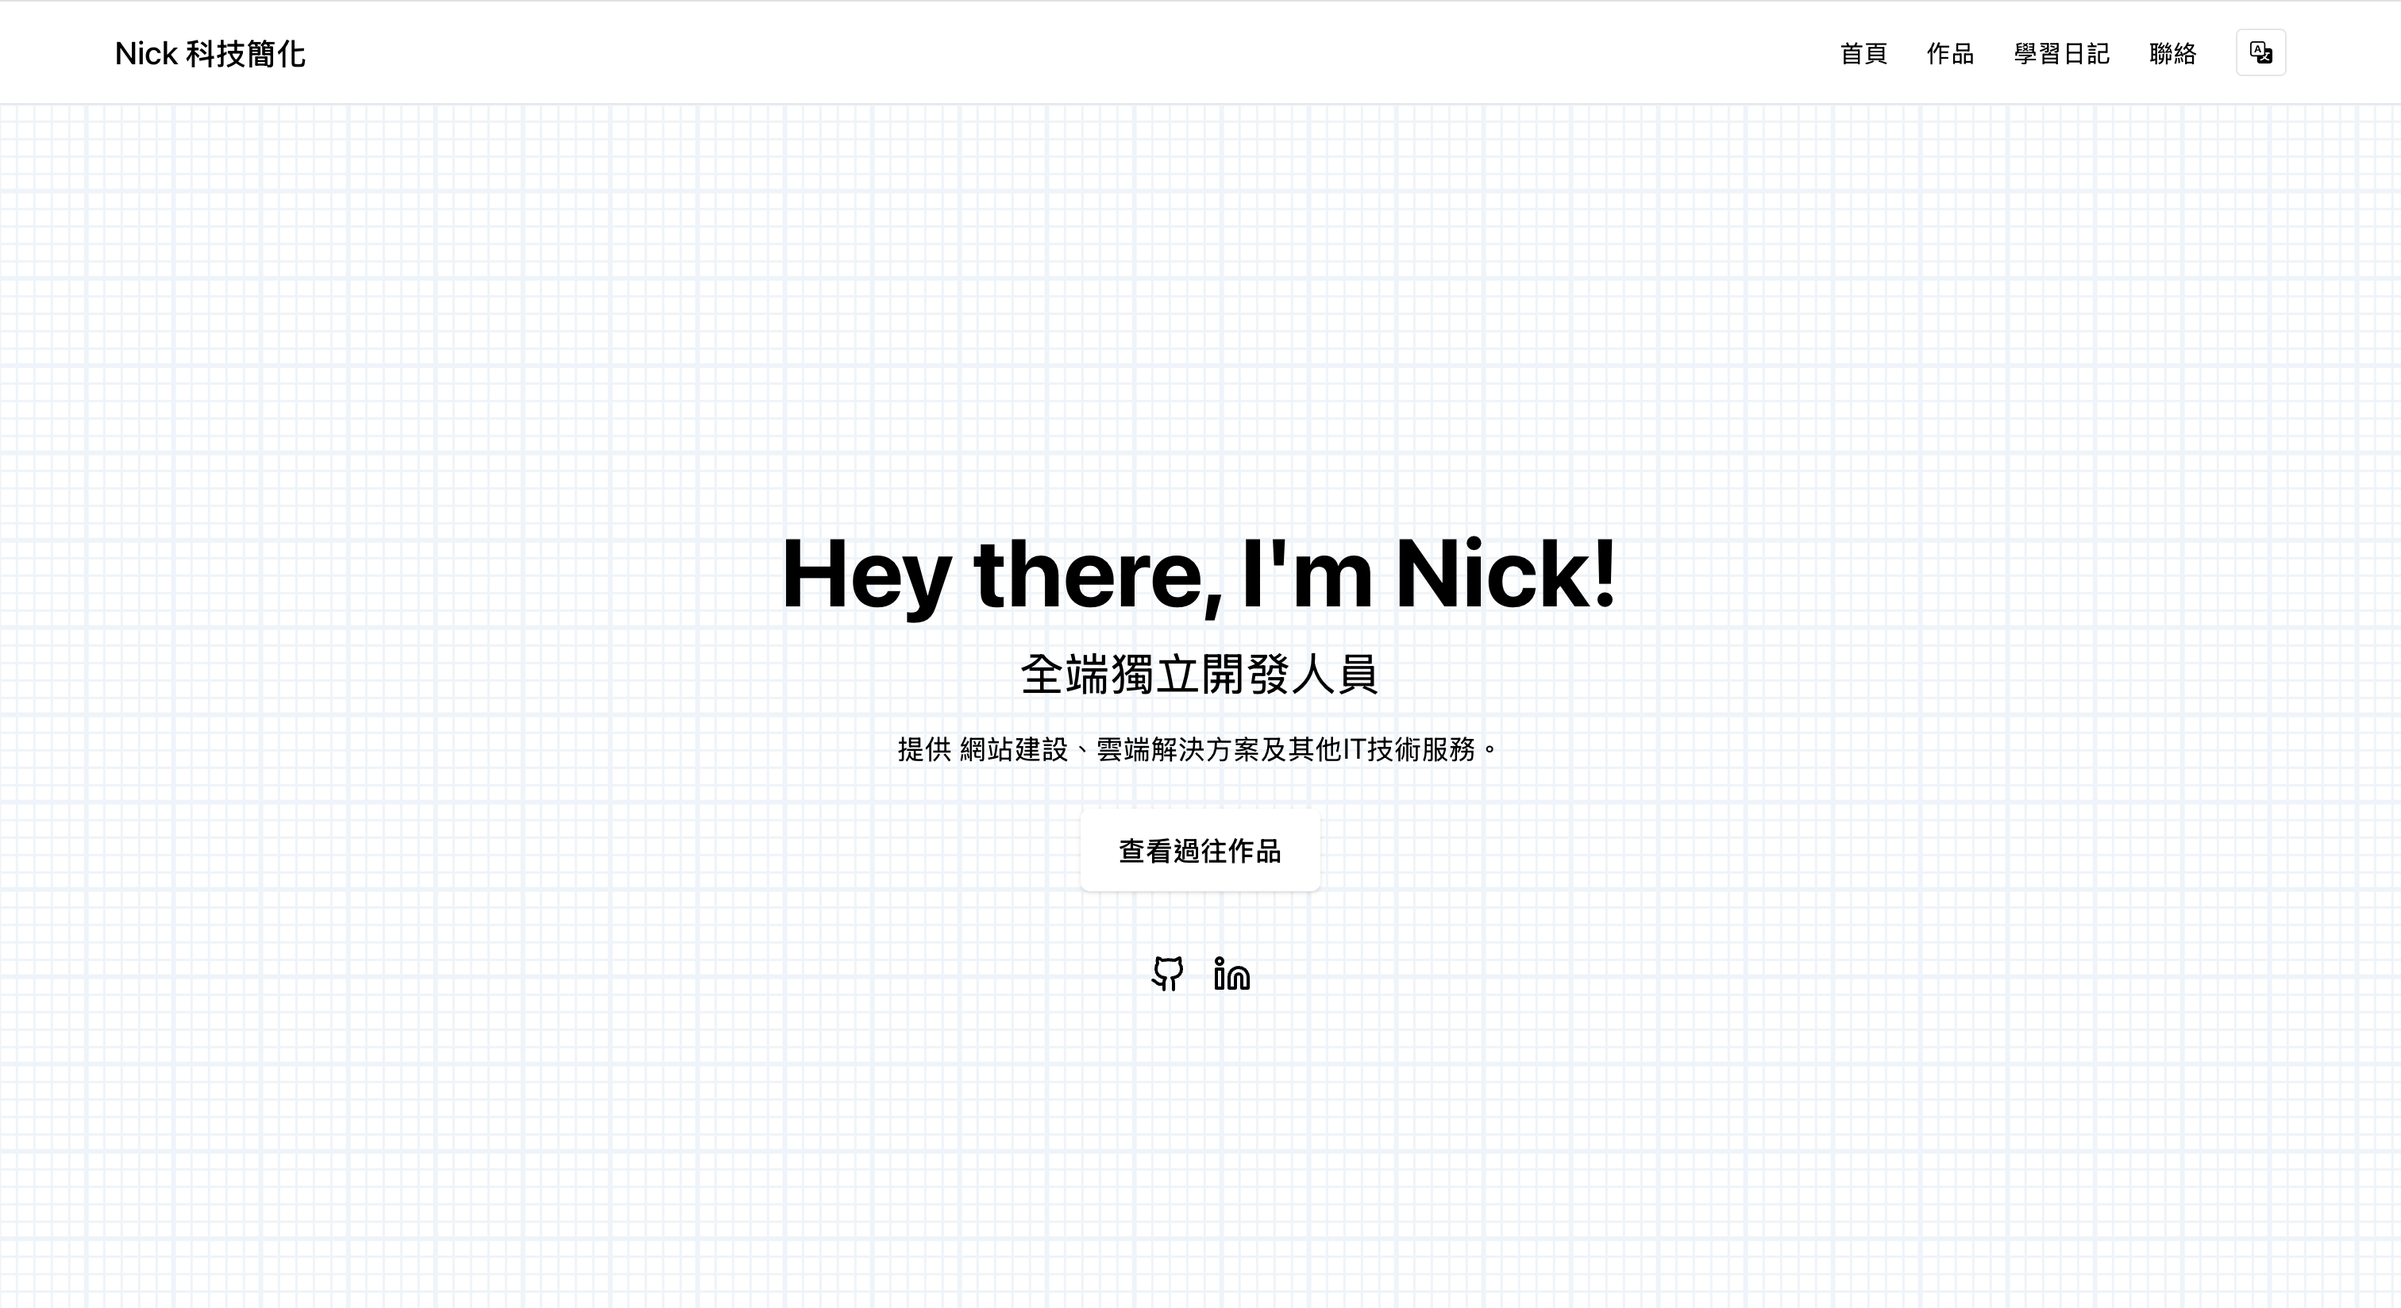
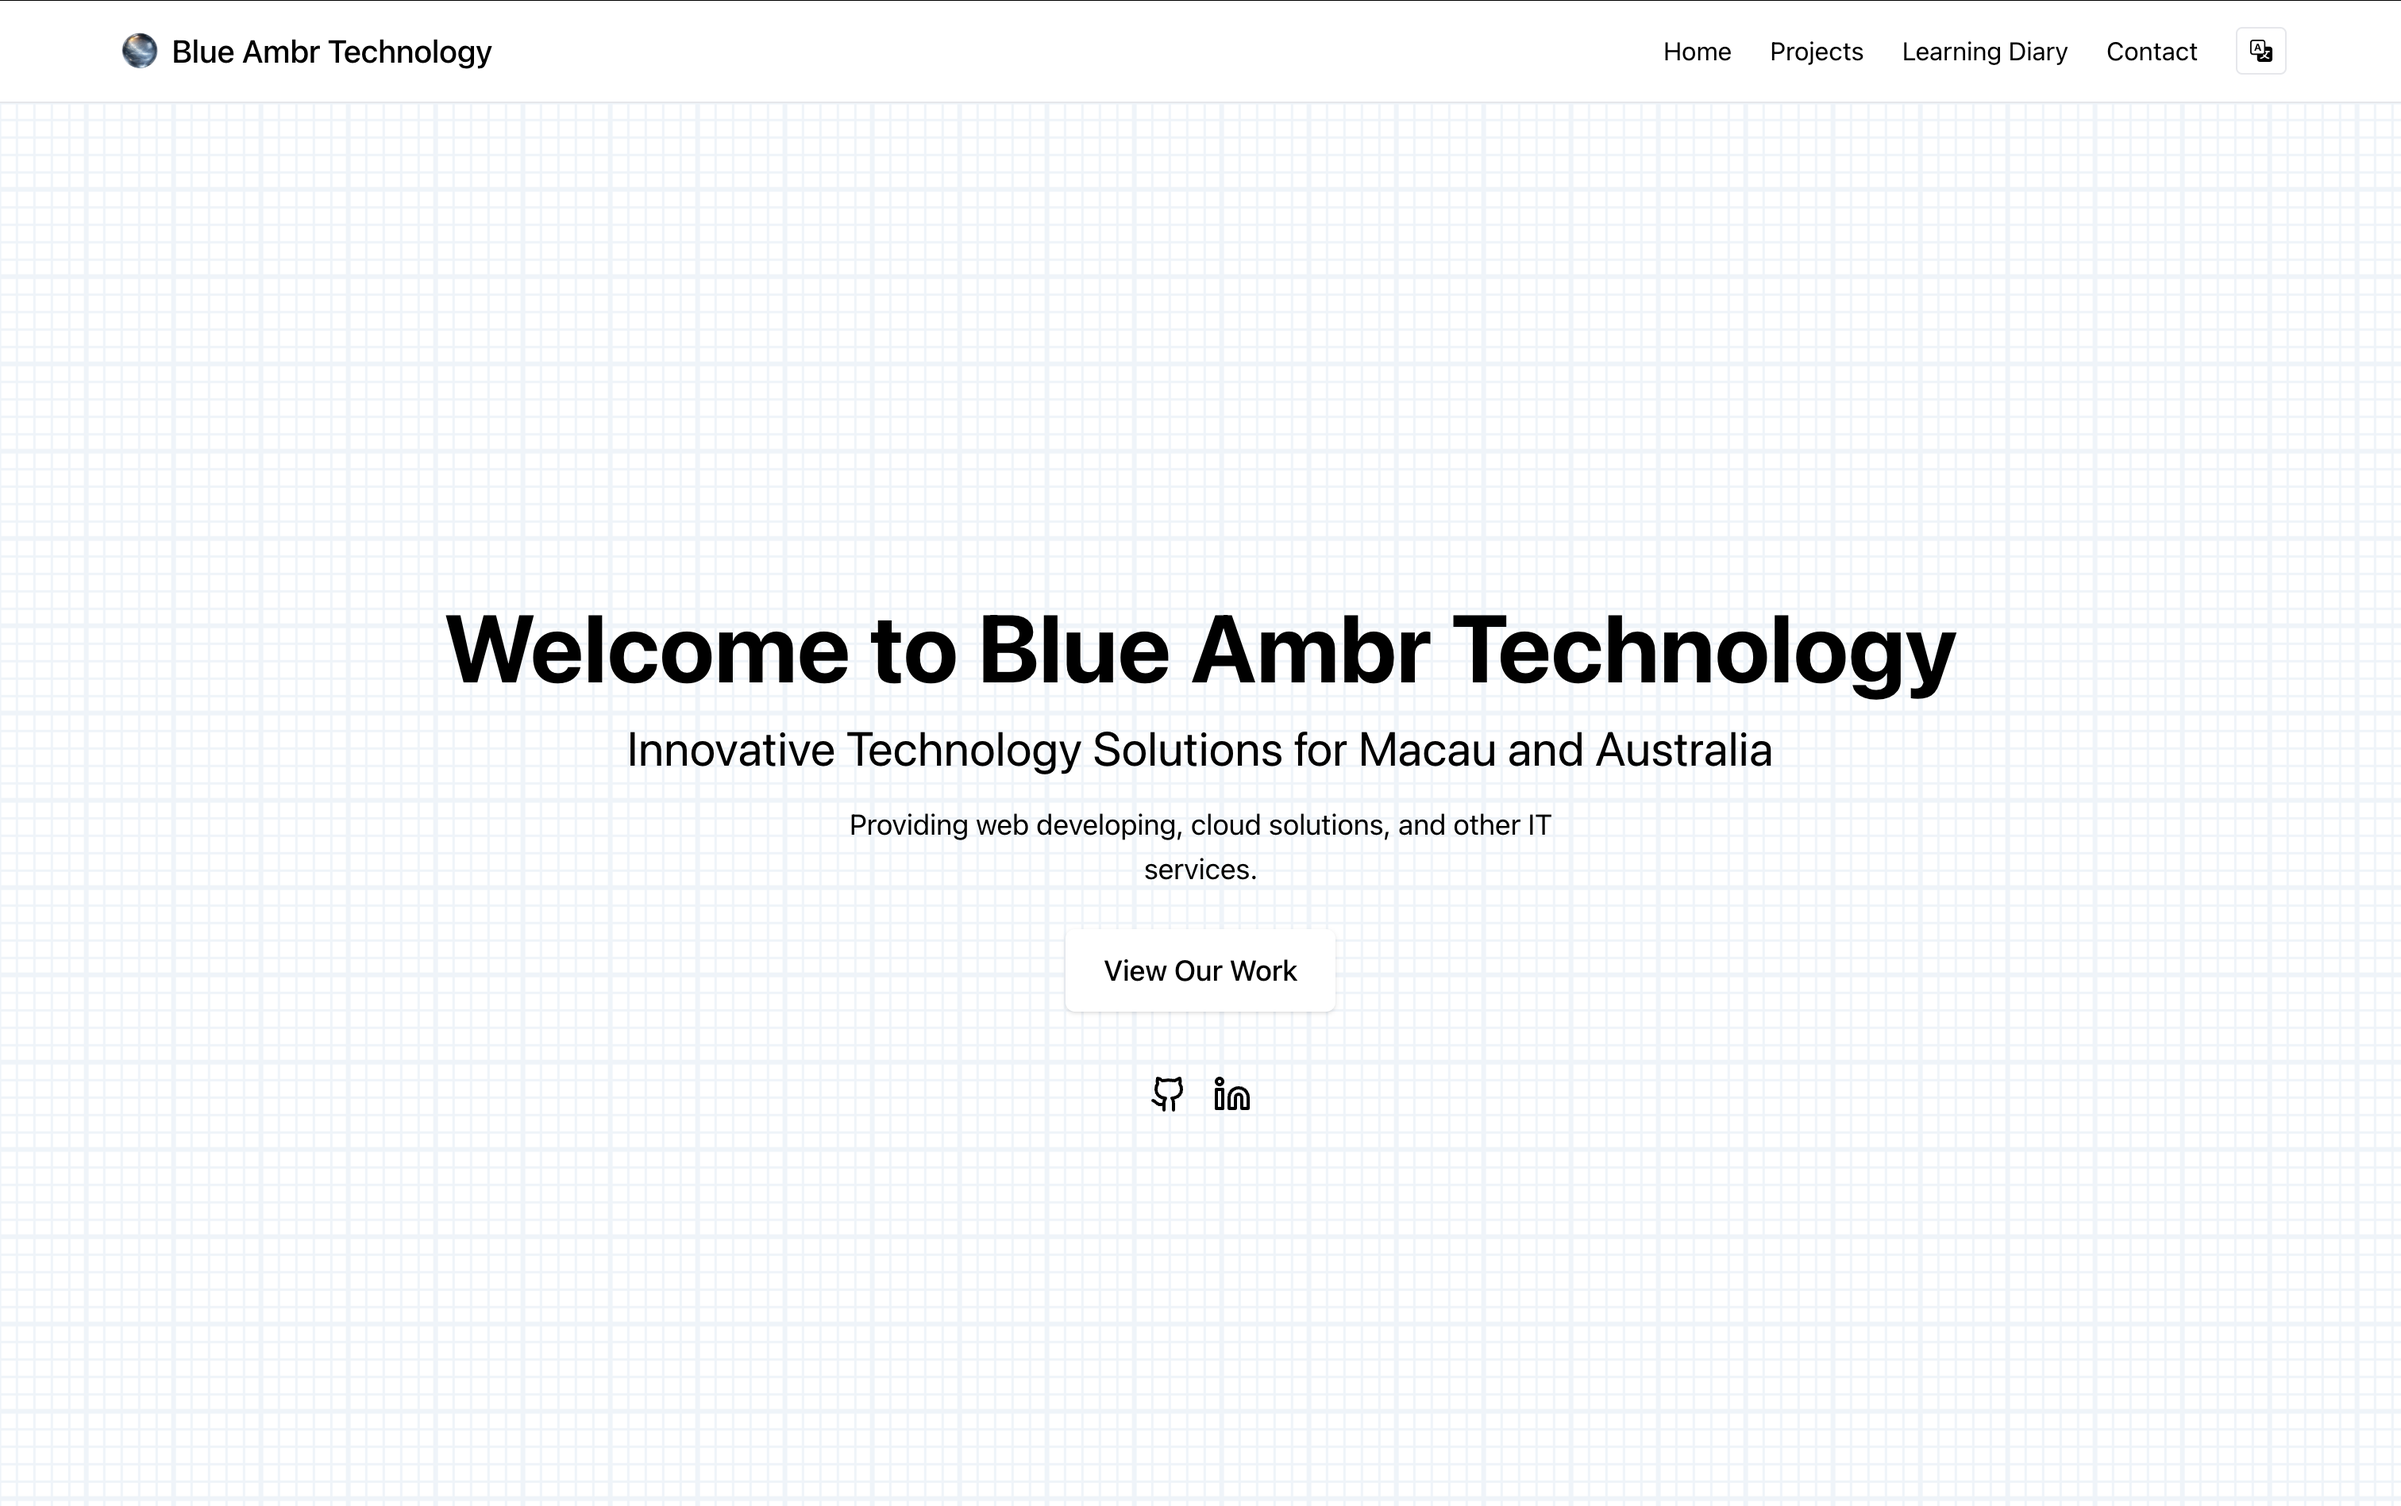
Renew website to adapt new name

diff --git a/public/index.html b/public/index.html
@@ -3,11 +3,11 @@
 
 <head>
   <meta charset="utf-8" />
-  <link rel="icon" href="%PUBLIC_URL%/n_logo.png" />
+  <link rel="icon" href="%PUBLIC_URL%/logo_tran.png" />
   <meta name="viewport" content="width=device-width, initial-scale=1" />
   <meta name="theme-color" content="#000000" />
   <meta name="description"
-    content="Nick's Developer Blog - Sharing knowledge and offering services on web development and programming." />
+    content="Blue Ambr Technology - Macau and Australia Technology Solutions." />
   <link rel="apple-touch-icon" href="%PUBLIC_URL%/n_logo.png" />
   <!--
       manifest.json provides metadata used when your web app is installed on a
@@ -25,21 +25,21 @@
     -->
 
   <!-- Open Graph / LinkedIn / Facebook -->
-  <meta property="og:title" content="Nick Choi - Developer Blog" />
+  <meta property="og:title" content="Blue Ambr Technology - Macau and Australia Technology Solutions" />
   <meta property="og:description"
-    content="Sharing knowledge and offering services on web development and programming." />
+    content="Blue Ambr Technology provides cutting-edge technology solutions in Macau and Australia, specializing in web development." />
   <meta property="og:image" content="%PUBLIC_URL%/banner.png" />
-  <meta property="og:url" content="https://nickchoi.blog/" />
+  <meta property="og:url" content="https://blueambr.com" />
   <meta property="og:type" content="website" />
 
   <!-- Twitter Card (optional but recommended) -->
   <meta name="twitter:card" content="summary_large_image" />
-  <meta name="twitter:title" content="Nick Choi - Developer Blog" />
+  <meta name="twitter:title" content="Blue Ambr Technology - Macau and Australia Technology Solutions" />
   <meta name="twitter:description"
-    content="Sharing knowledge and offering services on web development and programming." />
+    content="Blue Ambr Technology provides cutting-edge technology solutions in Macau and Australia, specializing in web development." />
   <meta name="twitter:image" content="%PUBLIC_URL%/banner.png" />
 
-  <title>Nick Choi - Developer Blog</title>
+  <title>Blue Ambr Technology - Macau and Australia Technology Solutions</title>
 </head>
 
 <body>

diff --git a/src/components/Footer.js b/src/components/Footer.js
@@ -12,7 +12,7 @@ export function Footer() {
         <div className="grid grid-cols-1 gap-8">
           {/* Developer Info */}
           <div className="space-y-4">
-            <h3 className="font-medium">Nick Choi</h3>
+            <h3 className="font-medium">Blue Ambr Technology</h3>
             <p className="text-sm text-muted-foreground">
               ‘{t("footer.quote")}’
             </p>
@@ -34,7 +34,7 @@ export function Footer() {
                 <Linkedin className="h-5 w-5" />
               </a>
               <a
-                href="http://www.instagram.com/easytechwithnick"
+                href="http://www.instagram.com/blue_ambr"
                 target="_blank"
                 rel="noopener noreferrer"
                 className="text-muted-foreground hover:text-foreground transition-colors"
@@ -100,7 +100,7 @@ export function Footer() {
 
         {/* Copyright */}
         <div className="border-t mt-12 pt-8 text-center text-sm text-muted-foreground">
-          <p>&copy; {currentYear} Nick Choi. All rights reserved.</p>
+          <p>&copy; {currentYear} Blue Ambr Technology. All rights reserved.</p>
         </div>
       </div>
     </footer>

diff --git a/src/components/Header.js b/src/components/Header.js
@@ -4,6 +4,7 @@ import { NavLink, Link, useNavigate } from "react-router-dom";
 import { auth } from "../firebase";
 import { onAuthStateChanged, signOut } from "firebase/auth";
 import { useTranslation } from "react-i18next";
+import logo from "../assets/logo_tran.png";
 
 export function Header() {
   const [isMenuOpen, setIsMenuOpen] = useState(false);
@@ -51,7 +52,10 @@ export function Header() {
     <header className="sticky top-0 z-50 w-full border-b bg-background/95 backdrop-blur supports-[backdrop-filter]:bg-background/60">
       <div className="container mx-auto px-4 flex h-16 items-center justify-between">
         <NavLink to="/" key="nav.home" className="text-xl font-medium">
+        <div className="flex items-center gap-1">
+          <img src={logo} alt="Logo" className="h-8 w-auto" />
           {t("site.title")}
+        </div>
         </NavLink>
 
         {/* Desktop */}

diff --git a/src/components/Contact.js b/src/components/Contact.js
@@ -33,9 +33,9 @@ export function Contact() {
               <span></span>
             </div> 
             */}
-                <a href="http://www.instagram.com/easytechwithnick" target="_blank" className="flex items-center justify-center underline gap-3">
+                <a href="http://www.instagram.com/blue_ambr" target="_blank" className="flex items-center justify-center underline gap-3">
                   <Instagram className="h-5 w-5 text-muted-foreground" />
-                  <span>@easytechwithnick</span>
+                  <span>@blue_ambr</span>
                 </a>
                 {/* <div className="flex items-center justify-center gap-3">
                   <MapPin className="h-5 w-5 text-muted-foreground" />
